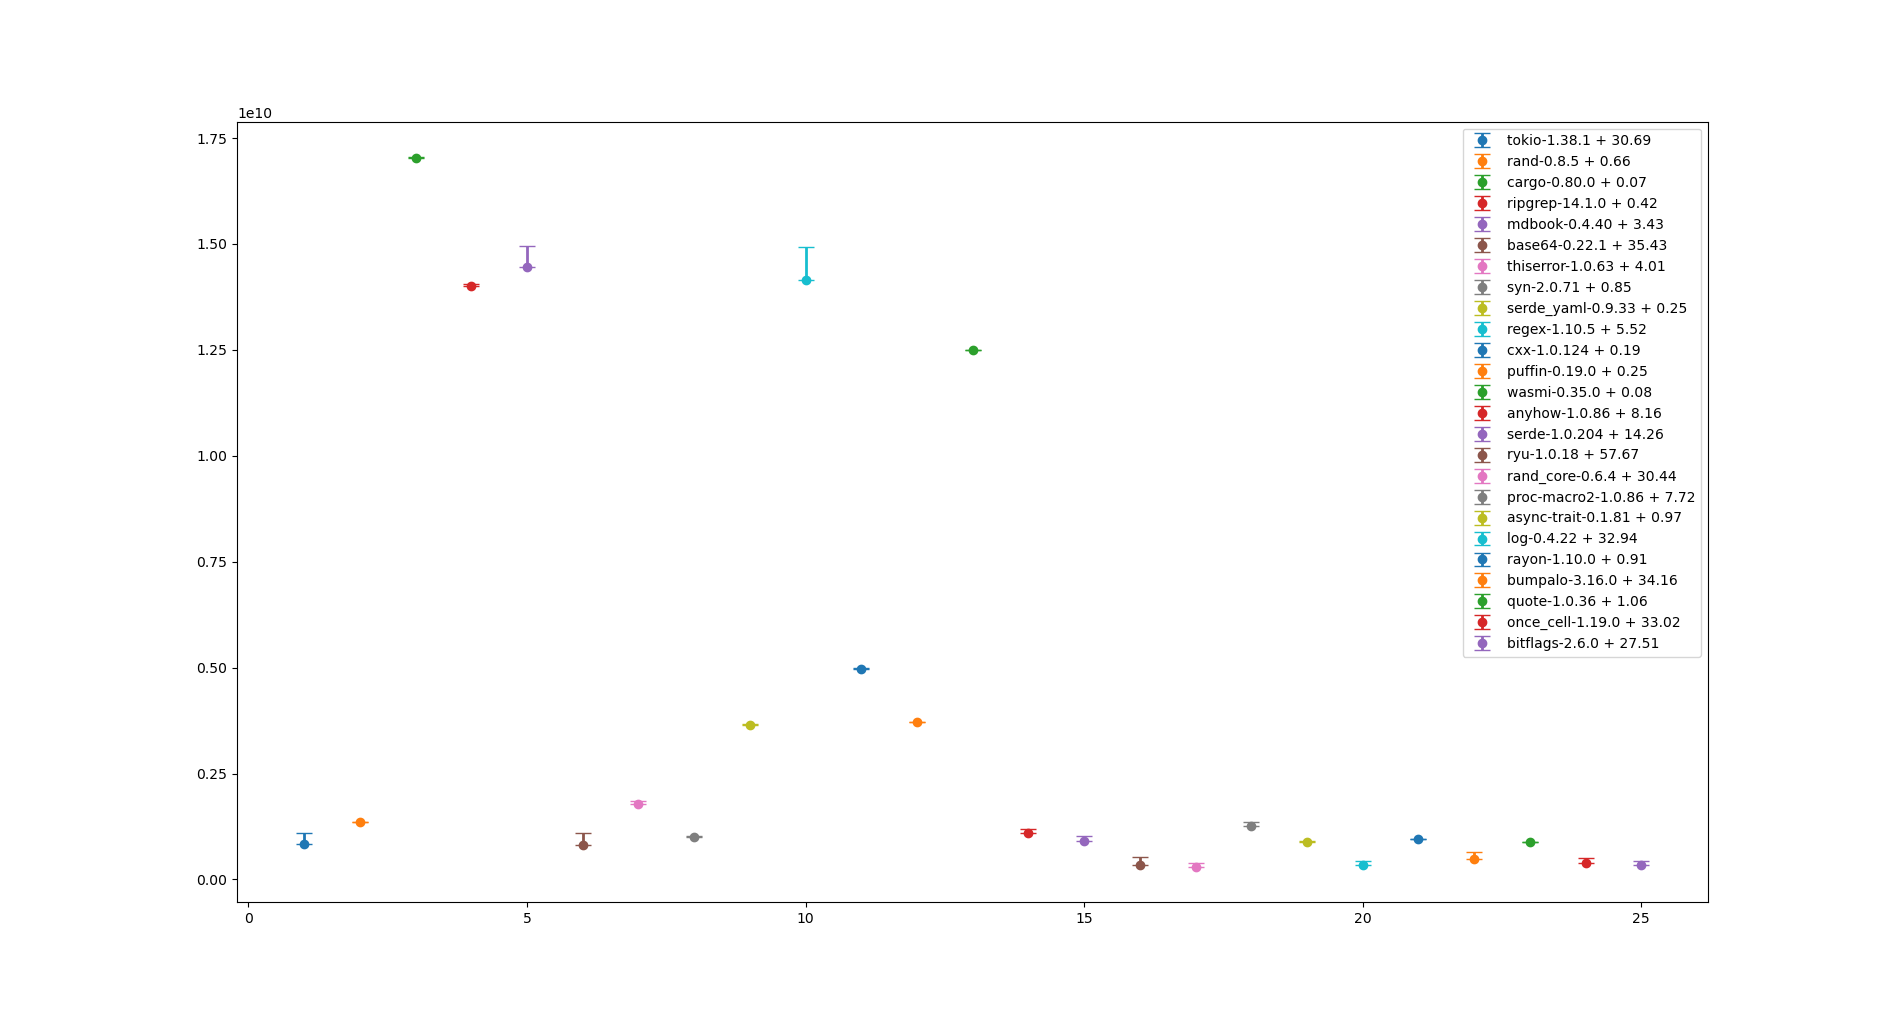
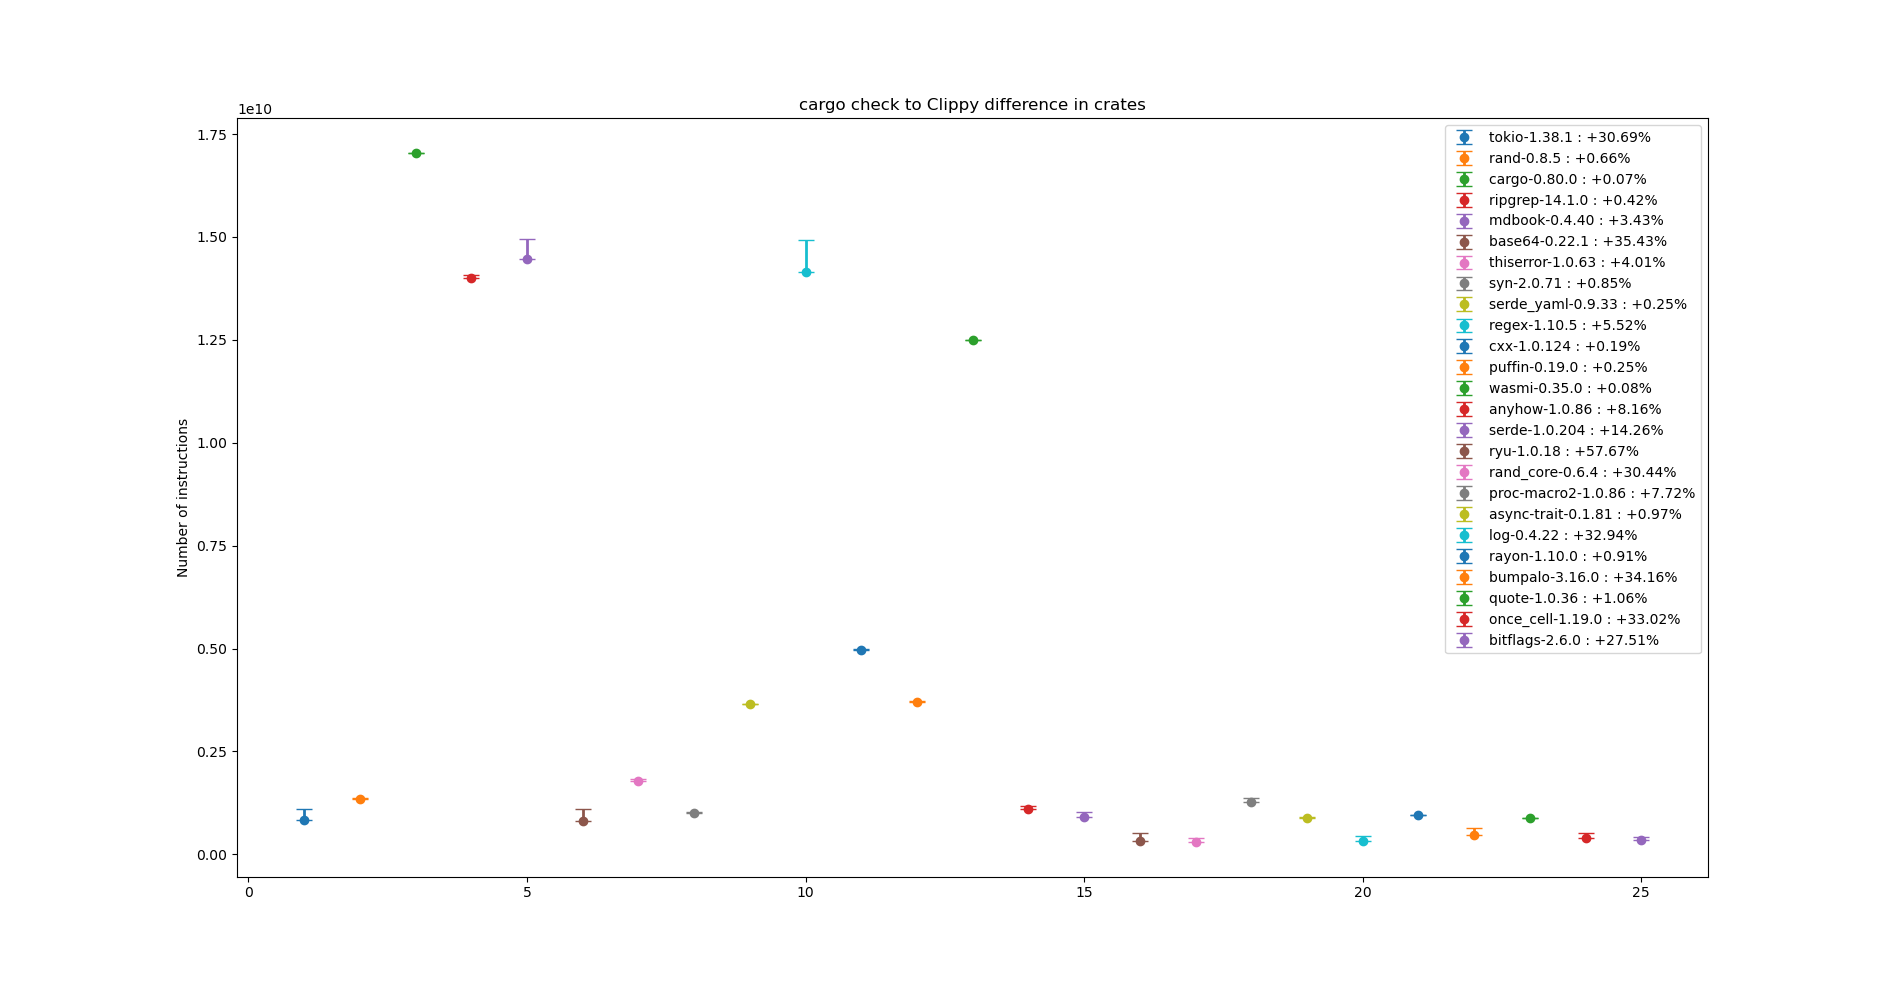
Add Rust: Performance Status Update

diff --git a/assets/css/style.scss b/assets/css/style.scss
@@ -14,6 +14,8 @@
 p {
   font-family: -apple-system, BlinkMacSystemFont, "Segoe UI", Roboto, Oxygen, Ubuntu, Cantarell, "Fira Sans", "Droid Sans", "Helvetica Neue", Arial, sans-serif, "Apple Color Emoji", "Segoe UI Emoji", "Segoe UI Symbol";
   font-size: 18px;
+  padding: 10px;
+  background-color: black;
 }
 
 body {
@@ -147,6 +149,7 @@ main {
   width: 50%;
 }
 
+
 main > * {
   background-color: black;
 }
@@ -223,6 +226,9 @@ video {
 
 // Mobile-friendly! :)
 @media only screen and (max-width: 768px) {
+  h1 {
+  background-color: black;
+}
   .main-title {
     width: 50%;
     padding-top: 5px;

diff --git a/content/posts/clippy-performance-status-update.md b/content/posts/clippy-performance-status-update.md
@@ -1,0 +1,77 @@
+---
+title: 'Rust: Clippy performance status update'
+date: 2025-07-19T13:10:50+02:00
+draft: false
+---
+
+If you know anything about me, is probably that I make Clippy as fast as I can.
+I love making programs faster both because (a) it's a puzzle, because (b) I don't
+think that we should expect users to have access to high-end hardware in order
+to compile a program and because (c) the energy footprint is smaller, which satisfies
+my ideological fight against waste.
+
+So some time after I joined the Clippy, I started dabbling into performance
+squeezing for our famously slow linter. As Clippy injects itself into the compiler,
+and we obligatory have to compile your program in order to analyze it, we are limited
+by the compiler itself. But that doesn't mean that everything is lost!
+
+From [lint filtering] (running only lints mentioned in your source code) to
+[optimizing routines that their implementors thought wouldn't need to be optimized because of their sparse use][15030]. Everything counts
+and I have the necessary numbers to prove that.
+
+To the numbers! *Exploding transition*
+
+# The numbers in question
+
+
+[{{< figure src="https://raw.githubusercontent.com/blyxyas/blog/refs/heads/main/Figure_1.png" caption="Graph of differences between cargo check and cargo clippy, click to zoom" alt="Graph of differences between cargo check and cargo clippy" >}}](https://raw.githubusercontent.com/blyxyas/blog/refs/heads/main/Figure_1.png)
+
+As you can see, the numbers differ **a lot** depending on how a given project
+may be structured. Some deciding factors are:
+
+- Is the project a binary or a library?
+- How many dependencies does your project have.
+- How many documentation lines does your project have?
+- Does your project configure a MSRV?
+- How complex is your trait use? Does your project use a lot of complex trait obligations?
+- What lints does your project enable with `#[warn]` and what `#![allow]`s are present.
+
+Some ratios present in the graph are Cargo itself, with just a +0.08% runtime difference.
+On libraries there's a lot of difference though. For example, `quote` only presents us with a +1.06%
+runtime difference, but `tokio` has a +30%.
+
+While benchmarking tools for Clippy were not present when I started working on
+Clippy performance, I manually benchmarked `tokio` comparing 1.81.0 (when I
+started the official project goal, not when I started the optimization efforts)
+to today's Clippy. It yielded a 38.042% decrease in runtime, that's equivalent
+to 843 million instructions saved! And what's better, this benchmark was before
+jemalloc was implemented into Clippy by Kobzol!
+
+So today's numbers are even better (in some cases 7-9% better)!
+
+# What's next
+
+Next in line is making parallel linting possible. Currently Rust's linting system
+is not parallel and that can be a great impediment when taking performance to the
+next level. I also have some ideas to implement in the incremental compilation department,
+which is a field of research I've ignored for a long time mainly because it's difficult.
+
+(Just go ask the rust-analyzer team for their Salsa project, and I'm sure they have war
+stories engraved in their minds)
+
+# Conclusion
+
+This long period of devoting myself to making Clippy better has been great. I'm happy
+ mantaining this project and hearing users talk about how Clippy is the best
+linter they've used. My mind is corrupt with all the bugfixes I review every day
+so sometimes I forget that Clippy produces generally good advice.
+
+Thanks for sticking with me in this journey, and see you all in the next
+irregular performance status update!
+
+Peace! ✌
+
+
+[lint filtering]: https://github.com/rust-lang/rust/pull/125116
+[15030]: https://github.com/rust-lang/rust-clippy/pull/15030
+
